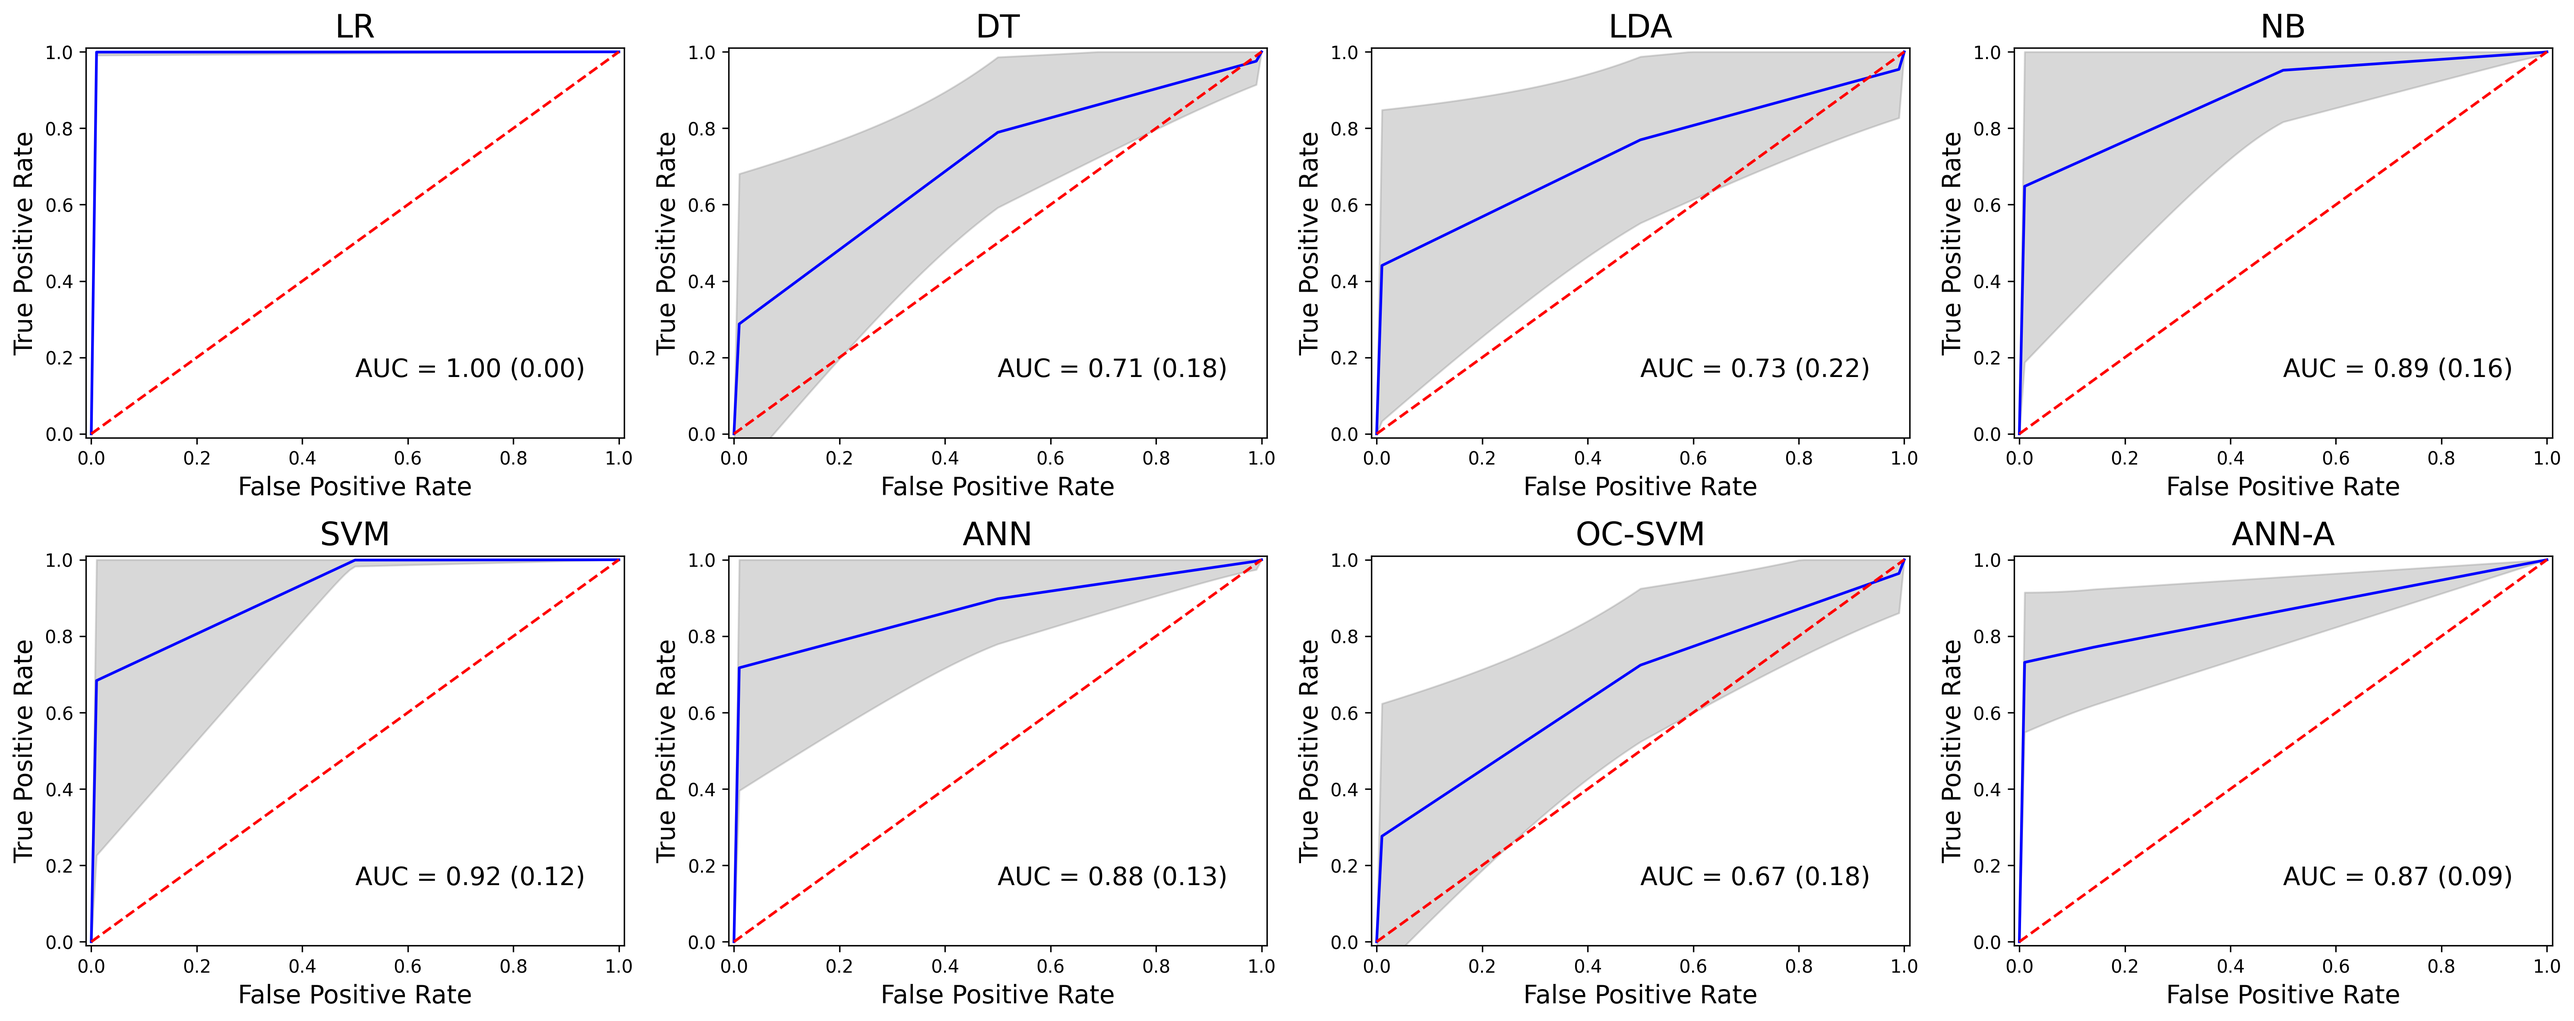
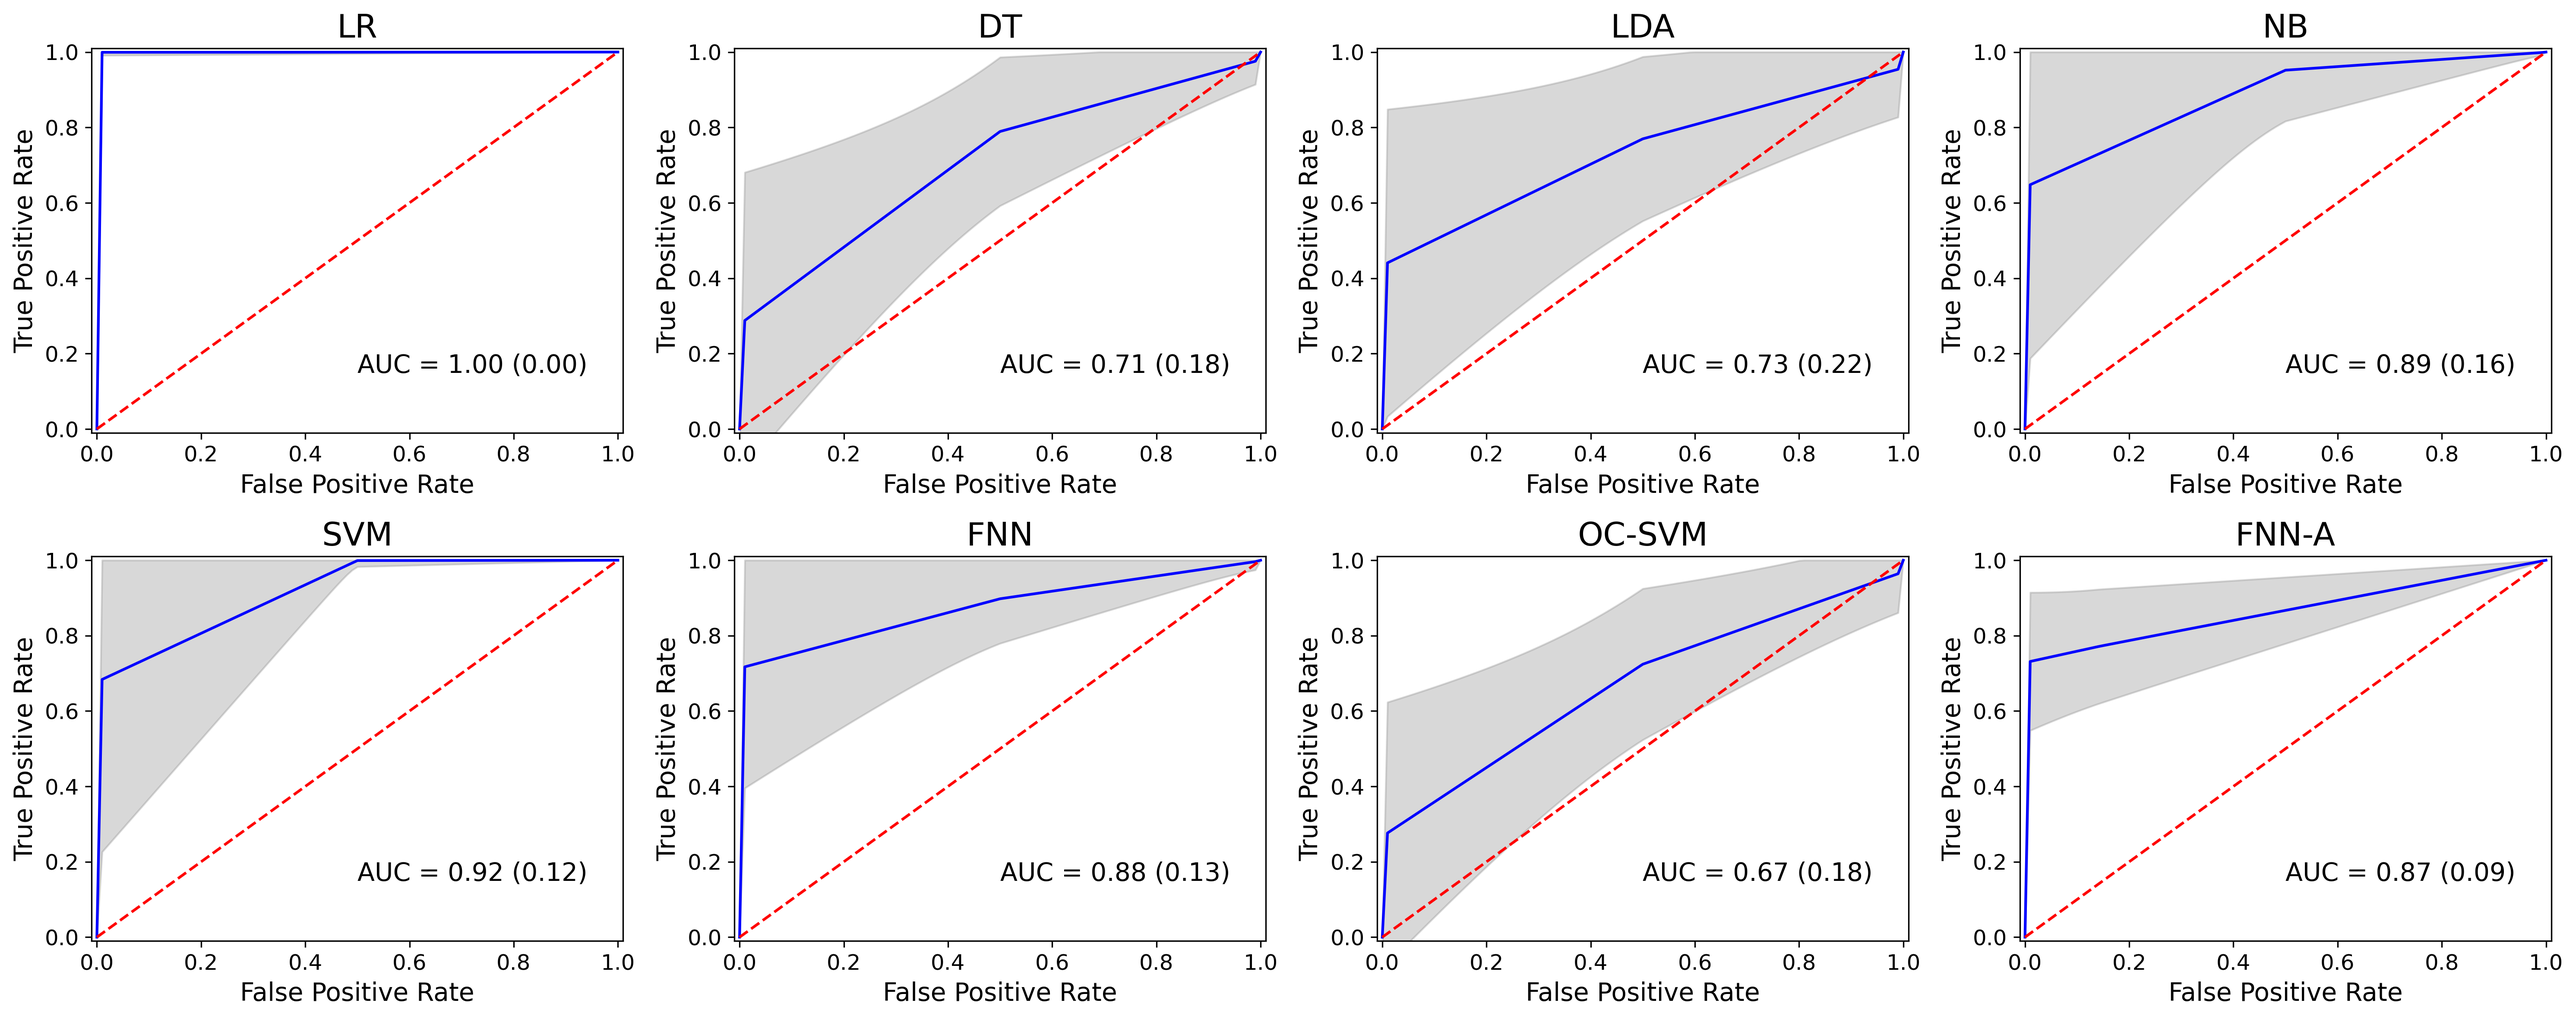
ANN to FNN

diff --git a/Fig3_results_bar_charts.py b/Fig3_results_bar_charts.py
@@ -80,8 +80,8 @@ for number_of_features in datasets:
 
     names = {0: 'LR', 1: 'DT',
              2: 'LDA', 3: 'NB',
-             4: 'SVM', 5: 'ANN',
-             6: 'OC-SVM', 7: 'ANN-A'}
+             4: 'SVM', 5: 'FNN',
+             6: 'OC-SVM', 7: 'FNN-A'}
 
     # Set up 2x4 subplot layout
     fig, axs = plt.subplots(2, 4, figsize=(14, 8), constrained_layout=True)
@@ -98,88 +98,4 @@ for number_of_features in datasets:
     figpath = os.path.join("figures", "Fig3_Bar_charts_" + str(number_of_features) + "_features.png")
     fig.savefig(figpath, dpi=300, bbox_inches='tight', format='png')
     plt.show()
-
-'''
-OLD CODE
-
-import numpy as np
-import matplotlib.pyplot as plt
-import matplotlib.colors as mcolors
-from statistics import stdev
-import os
-
-def DBS_outcome_prediction_accuracy(res_acc, res_sens, res_spec, res_AUC, name):
-    print(name)
-    print("%4.2f  (%4.2f)    %4.2f (%4.2f)   %4.2f (%4.2f)   %4.2f (%4.2f)" % (100*sum(res_acc)/len(res_acc), 100*stdev(res_acc), 100*sum(res_sens)/len(res_sens), 100*stdev(res_sens),
-          100*sum(res_spec)/len(res_spec), 100*stdev(res_spec), 100*sum(res_AUC)/len(res_AUC), 100*stdev(res_AUC)))
-    
-# Define the colors
-# Create a colormap instance
-cmap = plt.get_cmap('tab10')
-
-# Get the first four colors
-colors = [cmap(i) for i in range(4)]
-#or specific colors
-#colors = ['dodgerblue', 'royalblue', 'mediumblue', 'darkblue']
-
-def plot_barchart(ax, data, title):
-    # Calculate mean and standard deviation
-    mean_values = [np.mean(metric) for metric in data]
-    std_values = [np.std(metric) for metric in data]
-
-    # Create bar chart with error bars
-    bar_positions = np.arange(len(mean_values))
-    for pos, mean, yerr, color in zip(bar_positions, mean_values, std_values, colors):
-        ax.bar(pos, mean, align='center', alpha=0.7, color=color, ecolor='black', capsize=5, width=0.5)
-        ax.errorbar(pos, mean, yerr=yerr, fmt='none', ecolor='black', capsize=None)
-
-    # Set chart title and labels
-    ax.set_title(title)
-    ax.set_xticks(bar_positions)
-    ax.set_ylim(0, 1.0)
-    ax.set_xticklabels(['Acc', 'Sens', 'Spec', 'AUC'])
-
-    # Remove top border of subplot
-    ax.spines['top'].set_visible(False)
-    
-datasets = [5, 10, 20]
-
-# Determine the global y-axis limits
-y_min = 0
-y_max = 1
-
-for number_of_features in datasets:
-    datadir = "data/" +str(number_of_features)
-
-    accs = np.load(os.path.join(datadir, "ACC.npy"))
-    sens = np.load(os.path.join(datadir, "SENS.npy"))
-    spes = np.load(os.path.join(datadir, "SPEC.npy"))
-    aucs = np.load(os.path.join(datadir, "AUC.npy"))
-    
-    names = {0: 'LR', 1:'DT',
-         2: 'LDA', 3: 'NB',
-         4: 'SVM', 5: 'ANN',
-         6: 'OC-SVM', 7: 'ANN-A'}
-
-    fig, axs = plt.subplots(1, 8, figsize=(14, 4), constrained_layout=True, sharex=True, sharey=True)
-    #fig.suptitle(f'Performance Metrics for {number_of_features} Features')
-
-    for i, el in enumerate(list([0, 1, 2, 3, 4, 5, 6, 7])):
-        DBS_outcome_prediction_accuracy( accs[el], sens[el], spes[el], aucs[el], names[el])
-        
-        # Plot bar charts
-        #for 2x4
-        #ax = axs[i//4, i%4]
-        #for 1x8
-        ax = axs[i]
-        plot_barchart(ax, [accs[el], sens[el], spes[el], aucs[el]], names[el])
-    
-    plt.tight_layout()
-    
-    figpath = os.path.join("figures", "Fig3_Bar_charts_"+str(number_of_features)+"_features.tiff")
-    fig.savefig(figpath, dpi=300, bbox_inches='tight', format='tiff')
-    plt.show()
-'''
-        
-        
         

diff --git a/Fig4_ROC.py b/Fig4_ROC.py
@@ -10,7 +10,7 @@ from statistics import stdev
 import os
 
 #Select 5, 10 or 20
-number_of_features = 10
+number_of_features = 20
 base_fpr = np.linspace(0, 1, 101)
 datadir = "data"
 accs = np.load(os.path.join(datadir, str(number_of_features), "ACC.npy"))
@@ -46,8 +46,8 @@ axes = axes.ravel()
 
 names = {0: 'LR', 1:'DT',
          2: 'LDA', 3: 'NB',
-         4: 'SVM', 5: 'ANN',
-         6: 'OC-SVM', 7: 'ANN-A'}
+         4: 'SVM', 5: 'FNN',
+         6: 'OC-SVM', 7: 'FNN-A'}
 
 print("Accuracy %  Sensitivity %  Specificity %  AUC")
 for i, el in enumerate(list([0, 1, 2, 3, 4, 5, 6, 7])):
